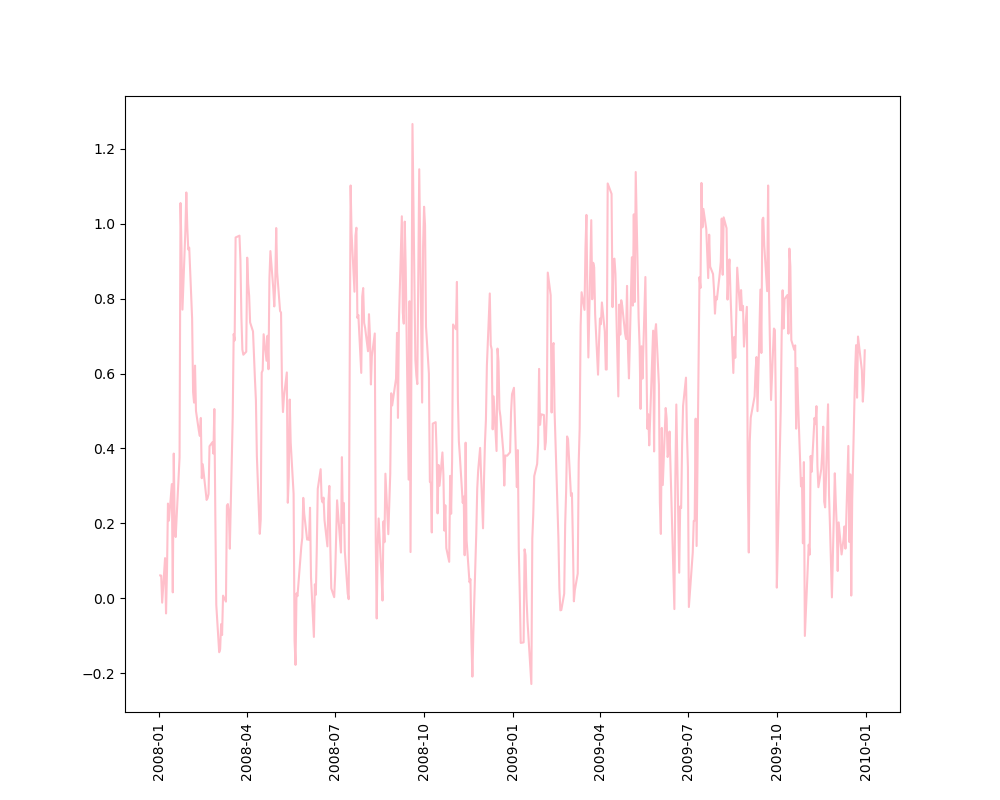
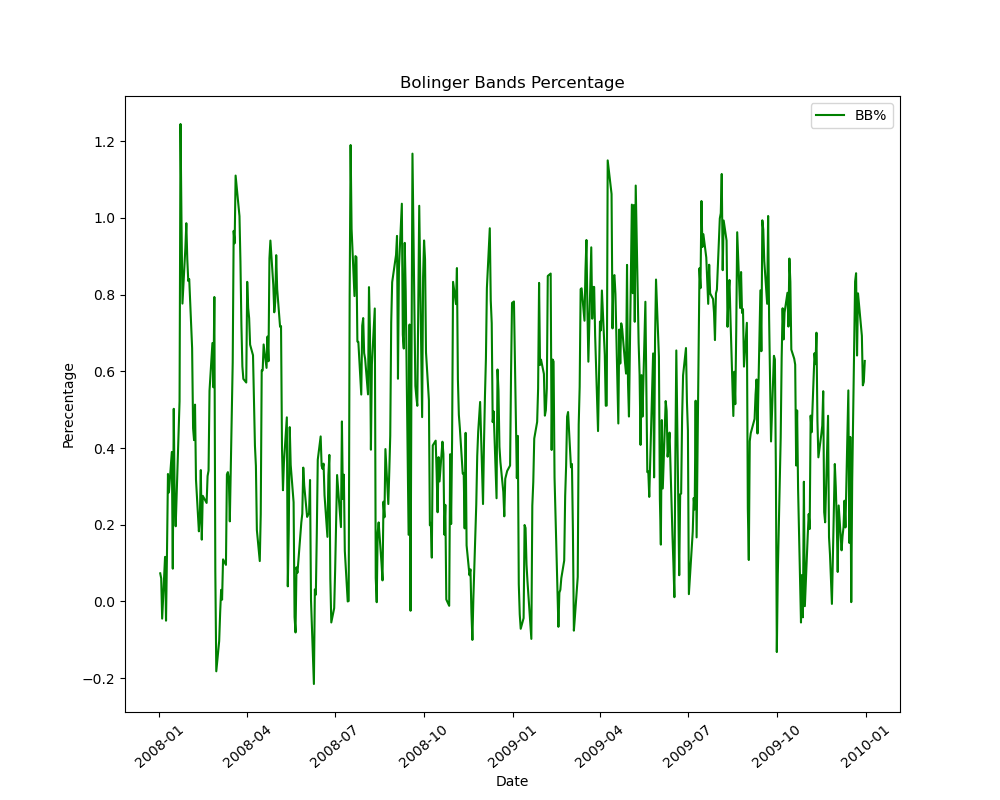
got all charts working except macd

diff --git a/ML4T/indicator_evaluation/indicators.py b/ML4T/indicator_evaluation/indicators.py
@@ -29,6 +29,7 @@ class Indicators:
         Control date here
         '''
         sd_before_period = self.start_date - dt.timedelta(days = 60)
+
         # Dynamically getting prices
         prices = get_data(self.symbols, pd.date_range(sd_before_period, self.end_date))
         prices = prices['JPM']
@@ -45,9 +46,9 @@ class Indicators:
         sma = sma[sma.index > self.start_date]
         normed_sma = sma / sma.iloc[0]
 
-        prices = prices[prices.index > self.start_date]
-        normed_prices = prices/prices.iloc[0]
-        print(normed_prices)
+        prices_correct_sd = prices[prices.index > self.start_date]
+        normed_prices = prices_correct_sd/prices_correct_sd.iloc[0]
+
         plt.figure(figsize=(10, 8))
         plt.plot(normed_prices, color='orange', label = 'prices')
         plt.plot(normed_sma, color='blue', label = 'SMA')
@@ -58,22 +59,64 @@ class Indicators:
         # plt.figure(figsize=(10, 8))
         plt.xticks(rotation='40')
 
-        plt.show()
+        plt.savefig('sma.png')
+        plt.close()
         print('SMA chart built')
         '''
         Build DF and Chart for indicator 2: Bolinger Band Percentage
         '''
-        # self.bolinger_bands(prices, 14)
+
+        bbp = self.bolinger_bands(prices, 14)
+        bbp = bbp[bbp.index > self.start_date]
+
+        # prices[prices.index > start_date]
+
+        plt.figure(figsize=(10, 8))
+        plt.xticks(rotation=40)
+        plt.plot(bbp, color='green', label = 'BB%')
+        plt.title('Bolinger Bands Percentage')
+        plt.xlabel('Date')
+        plt.ylabel('Perecentage')
+        plt.legend()
+        # plt.show()
+        plt.savefig('./graphs/bbpercent.png')
+        plt.close()
+        print('bb% built')
         '''
         Build DF and Chart for indicator 3: Stochastic indicator/oscillator
         '''
 
-        # self.stochastic_indicator(prices, 14)
+        si = self.stochastic_indicator(prices, 14)
+        si = si[si.index>self.start_date]
 
+        plt.figure(figsize=(10, 8))
+        plt.xticks(rotation=40)
+        plt.plot(si, color='orange', label='Stochastic Oscillator')
+        plt.title('Stochastic Oscillator')
+        plt.xlabel('Date')
+        plt.ylabel('%K')
+        plt.legend()
+        # plt.show()
+        plt.savefig('./graphs/so.png')
+        plt.close()
+        print('stochastic indicator built')
         '''
         Build DF and Chart for indicator 4: Rate of Change
         '''
-        # self.rate_of_change(prices, 14)
+        roc = self.rate_of_change(prices, 14)
+        roc = roc[roc.index > self.start_date]
+        plt.figure(figsize=(10, 8))
+        plt.xticks(rotation=40)
+        plt.plot(roc, color='red', label='Rate of Change')
+        plt.title('Rate of Change')
+        plt.xlabel('Date')
+        plt.ylabel('Rate of Change')
+        plt.legend()
+        plt.show()
+        # plt.savefig('./graphs/roc.png')
+        # plt.close()
+        # plt.plot(roc, color='green')
+        # plt.savefig('./graphs/roc.png')
         '''
         Build DF and Chart for indicator 5: MACD
         (includes MACD line, signal line and MACD histogram)
@@ -278,6 +321,7 @@ def test_code():
     # Define input parameters
 
     # #Statically getting prices
+    print('you are running test_code')
     start_date = dt.datetime(2008, 1, 1)
     sd_before_30 = start_date - dt.timedelta(days=60)
     end_date = dt.datetime(2009, 12, 31)
@@ -358,4 +402,5 @@ def test_code():
     plt.bar(x= macd_hist.index, height = macd_hist)
     plt.savefig('./graphs/macd_hist.png')
 if __name__ == "__main__":
-    test_code()
+    # test_code()
+    print('nothing should happen')
